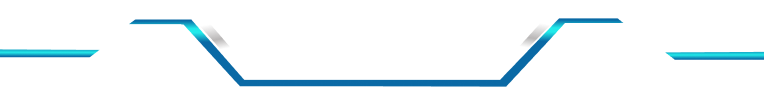
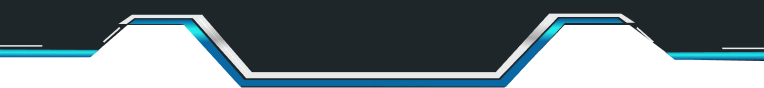
sdf

diff --git a/src/components/Header/Navbar.jsx b/src/components/Header/Navbar.jsx
@@ -8,7 +8,10 @@ import Ellipse132 from "../../assets/menu/Group 54.svg";
 import MenuButton from "../button/MenuButton";
 import { GiCrossedSwords } from "react-icons/gi";
 import {animate, motion, spring} from "framer-motion"
-import { useSelector } from "react-redux";
+import { toast } from 'react-hot-toast';
+import { userActions } from './../../store/userSlice';
+import { useSelector, useDispatch } from "react-redux";
+
 const Navbar = ({ setShowNav }) => {
   const navigate = useNavigate();
   const userData = useSelector((state) => state.user.data);
@@ -23,6 +26,7 @@ const Navbar = ({ setShowNav }) => {
   //     </div>
   //   );
   // };
+
   const NavButton = ({ name, action,desktopClasses,desktopDelay,mobileDelay }) => {
     const fadeInUp = {
       hidden: { opacity: 0, y: 50 },
@@ -42,9 +46,15 @@ const Navbar = ({ setShowNav }) => {
         },
       },
     };
+    const dispatch = useDispatch();
+
     
     const isMobile = window.innerWidth <= 768; 
-  
+    const logout = () => {
+      localStorage.clear();
+      toast.success("User Logged out successfully");
+      dispatch(userActions.removeUser());
+    };
     return (
       <motion.div
         className={`${desktopClasses}`}
@@ -135,7 +145,7 @@ const Navbar = ({ setShowNav }) => {
         </div>
 
         {/* Left Buttons */}
-        <div className="left-buttons pt-[30px] md:pt-0 md:absolute left-0 md:top-[30px] flex flex-col gap-[30px] font-bruno">
+        <div className="left-buttons pt-[30px] md:pt-0 md:absolute left-0 md:top-[30px] flex flex-col gap-[30px] font-bruno order-2 md:order-1">
           <NavButton
             name="Home"
             action={() => navigate("/")}
@@ -174,14 +184,14 @@ const Navbar = ({ setShowNav }) => {
         </div>
 
         {/* Center Button */}
-        <div className="center-button md:absolute lg:top-[-20px] md:top-0 left-2/5 font-bruno">
+        <div className="center-button md:absolute lg:top-[-20px] md:top-0 left-2/5 font-bruno order-1 md:order-2">
             
            {userData ?   <h1 className="bg-transparent font-semibold  text-xl" onClick={()=>{navigate('/profile')}}>
                             {userData.tzkid.toUpperCase()}
                           </h1> :
              <NavButton
             name="Login"
-            action={() => navigate("/login")}
+            action={() => navigate("/register")}
             desktopDelay={6}
             mobileDelay={6}
             desktopClasses="md:animate-slideTopDelay6"
@@ -191,7 +201,7 @@ const Navbar = ({ setShowNav }) => {
         </div>
 
         {/* Right Buttons */}
-        <div className="right-buttons mb-[40px] md:absolute right-0 top-[30px] flex flex-col gap-[30px] font-bruno">
+        <div className="right-buttons mb-[40px] md:absolute right-0 top-[30px] flex flex-col gap-[30px] font-bruno order-3">
           <NavButton
             name="About"
             action={() => navigate("/about")}

diff --git a/src/components/Shared/Footer.jsx b/src/components/Shared/Footer.jsx
@@ -5,19 +5,21 @@ import { FaTwitter } from "react-icons/fa";
 
 const Footer = () => {
   return (
-    <div className="footer_container hidden  md:flex justify-center items-end translate-y-[30px] md:bottom-[-12px]">
-      <footer className="h-full w-full flex  lg:items-end justify-around  lg:py-4 mt-[20px]">
-        <div className="social-media flex  text-white lg:text-2xl gap-[20px] md:items-center md:translate-y-[20px] lg:translate-y-0">
-        <FaLinkedin />
-        <RiInstagramFill />
-        <FaFacebookSquare />
-        <FaTwitter />
-
+    <div className="footer_container hidden  md:flex justify-center items-end translate-y-[30px] md:bottom-[-16px]">
+      <footer className="h-full w-full flex items-center  lg:items-end justify-between lg:justify-around lg:p-4 mt-[20px]">
+        <div className="social-media flex text-white mb-2  md:items-center md:translate-y-[13px]  lg:translate-y-0 justify-around w-1/3 translate-x-[-20px]">
+          <FaLinkedin className="text-[20px] lg:text-[25px] hover:text-[blue]" />
+          <RiInstagramFill className="text-[20px] lg:text-[25px] hover:text-[#E1306C]" />
+          <FaFacebookSquare className="text-[20px] lg:text-[25px] hover:text-[#1877F2]" />
+          <FaTwitter className="text-[20px] lg:text-[25px] hover:text-[#1DA1F2]" />
+          <FaTwitter className="text-[20px] lg:text-[25px] hover:text-[#1DA1F2]" />
         </div>
-        <div className="text-center flex items-center h-full text-sm  lg:text-xl   translate-x-[62px]">Copyright &copy; RGUKT,Nuzvid</div>
-        <div className="flex gap-[20px] lg:text-lg text-sm md:items-center    md:translate-y-[20px] lg:translate-y-0">
+        <div className="text-center md:translate-y-[15px] lg:translate-y-0 lg:text-[22px] w-1/3 mb-3">
+          Copyright &copy; RGUKT,Nuzvid
+        </div>
+        <div className="flex md:items-center md:translate-y-[14px] lg:translate-y-0 w-1/3 justify-around lg:text-[19px] mb-1">
+          <h2>Updates</h2>
           <h2>Contact</h2>
-          <h2>Stalls</h2>
           <h2>Events Schedule</h2>
         </div>
       </footer>

diff --git a/src/components/Header/Header.jsx b/src/components/Header/Header.jsx
@@ -73,11 +73,11 @@ const Header = () => {
                 <h1 className="max-lg:hidden bg-transparent font-semibold  text-xl">
                   {userData.tzkid.toUpperCase()}
                 </h1>
-                <IoMdPerson className="md:hidden" size={22} />
+                <IoMdExit className="md:hidden" size={22} />
               </Link>
             )}
               <h1 className="max-lg:hidden bg-transparent">Logout</h1>
-              <IoMdExit className="hidden" size={22} />
+              <IoMdExit className="hidden sm:block lg:hidden" size={22} />
             </div>
             </div>
           ) : (

diff --git a/src/index.css b/src/index.css
@@ -286,7 +286,7 @@ select option {
   transform: rotate(0deg);
   left: 0;
   right: 0;
-  background: url("../public/Group 174.svg") no-repeat top center fixed;
+  background: url("../public/foot.png") no-repeat top center fixed;
   height: 90px;
   background-size: 100% 100px;
   z-index: 3;
@@ -328,7 +328,7 @@ select option {
   left: 0;
   right: 0;
   z-index: 10;
-  background: url("../public/headerImg.png") no-repeat top center fixed;
+  background: url("../public/Group104.png") no-repeat top center fixed;
   height: 90px;
   background-size: 100% 100px;
 }
